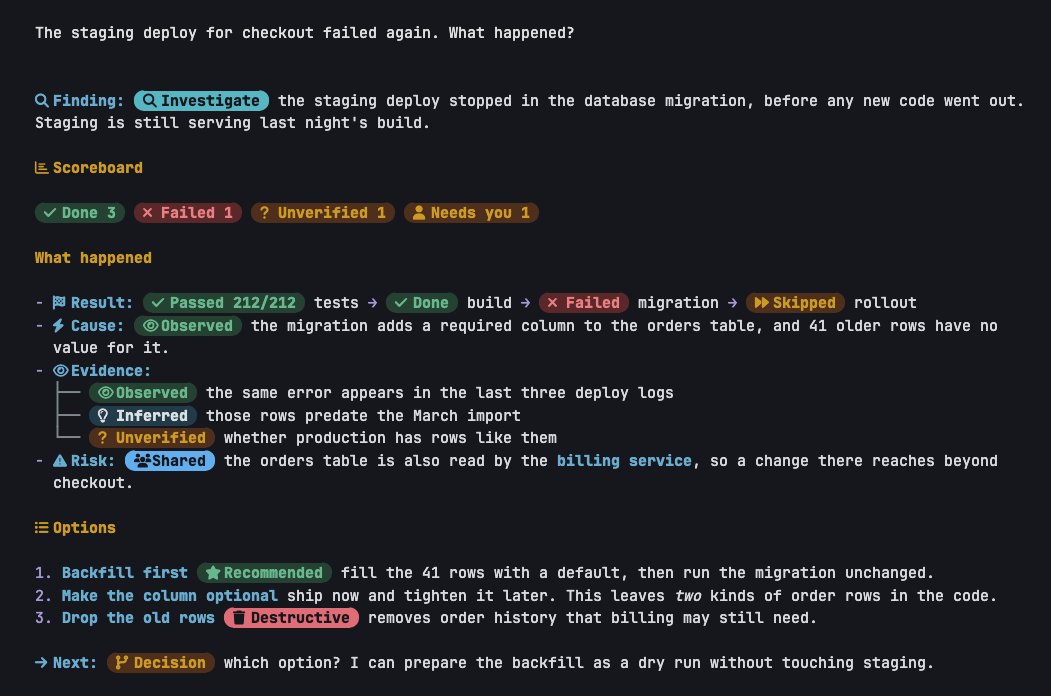
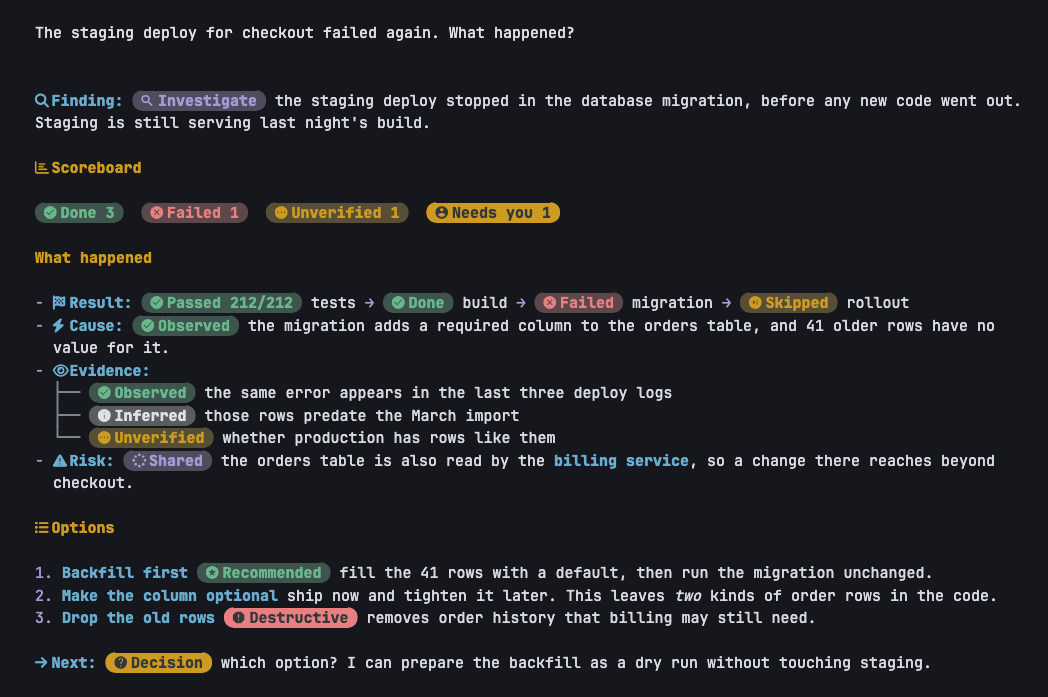
demo: honest without screenshot
The without shot reused the pill reply with raw [[words]], but a model
with no reply-style rules never writes pills. Add demo/without-reply.md
(same question, same facts, ordinary Markdown prose), draw it with the
extension off, retake all three screenshots on main's current look, and
fix the README caption and alt text.

diff --git a/demo/shots.py b/demo/shots.py
@@ -121,5 +121,5 @@ body{{margin:0;background:{BG}}} pre{{display:inline-block;margin:0;padding:22px
 if __name__ == "__main__":
     deploy = "The staging deploy for checkout failed again. What happened?"
     shot("reply", deploy, "deploy-reply.md")
-    shot("without", deploy, "deploy-reply.md", extension=False)
+    shot("without", deploy, "without-reply.md", extension=False)
     shot("vocabulary", "Show me every pill.", "every-pill.md")

diff --git a/demo/without-reply.md b/demo/without-reply.md
@@ -1,0 +1,21 @@
+The staging deploy for checkout failed during the database migration step, so none of the new code was actually rolled out. The good news is that staging is still running last night's build, so nothing is broken there right now.
+
+## What happened
+
+The pipeline got through the earlier stages without problems. All 212 tests passed and the build completed successfully. It was the migration that failed, and because of that the rollout step was skipped.
+
+The migration adds a new required column to the `orders` table. The problem is that there are 41 older rows in that table that don't have a value for the new column, so the database rejects the change. This isn't a one-off, either: I found the same error in the last three deploy logs, which explains why it keeps failing.
+
+Looking at those 41 rows, I think they were created before the March import, although I haven't confirmed that. I also haven't been able to check whether production has rows like these, so it's possible the same migration would fail there too.
+
+One more thing to keep in mind is that the `orders` table isn't only used by checkout. The **billing service** reads from it as well, so any change we make to that table could affect billing, not just checkout.
+
+## Possible fixes
+
+There are a few ways we could handle this:
+
+- **Backfill the missing values first.** We could fill in the 41 rows with a default value and then run the migration as it is. This is the option I'd recommend, since it fixes the data without changing the migration.
+- **Make the new column optional.** This would let us ship right away and make the column required later. The downside is that the code would have to deal with two different kinds of order rows in the meantime.
+- **Delete the old rows.** This would also unblock the migration, but it's destructive: it removes order history that the billing service may still need, so I'd be careful with this one.
+
+If you'd like, I can prepare the backfill as a dry run first, without touching staging, so you can see exactly what would change. Which option would you like to go with?

diff --git a/README.md b/README.md
@@ -15,9 +15,9 @@ Replies you can scan. This [Pi](https://pi.dev/) extension turns `[[Done]]`, `[[
 
 ![A Pi reply about a failed deploy, with colored pills, icons and labels](screenshots/reply.png)
 
-The reply above is an invented example about an imagined deploy. This is the same reply without the extension:
+The reply above is an invented example about an imagined deploy. This is the same answer as a model writes it without the extension, with no rules and no drawing:
 
-![The same reply as plain Markdown, with the pills shown as bracketed words](screenshots/without.png)
+![The same answer as a model writes it without the extension: longer plain Markdown paragraphs, two headings and a bullet list, with no pills](screenshots/without.png)
 
 It changes only what is drawn. Stored messages, copied text and HTML exports keep the original Markdown. It makes no extra model call. The `reply_style` prompt section does add input tokens to each model request in the terminal interface: see [The rules come with it](#the-rules-come-with-it).
 
